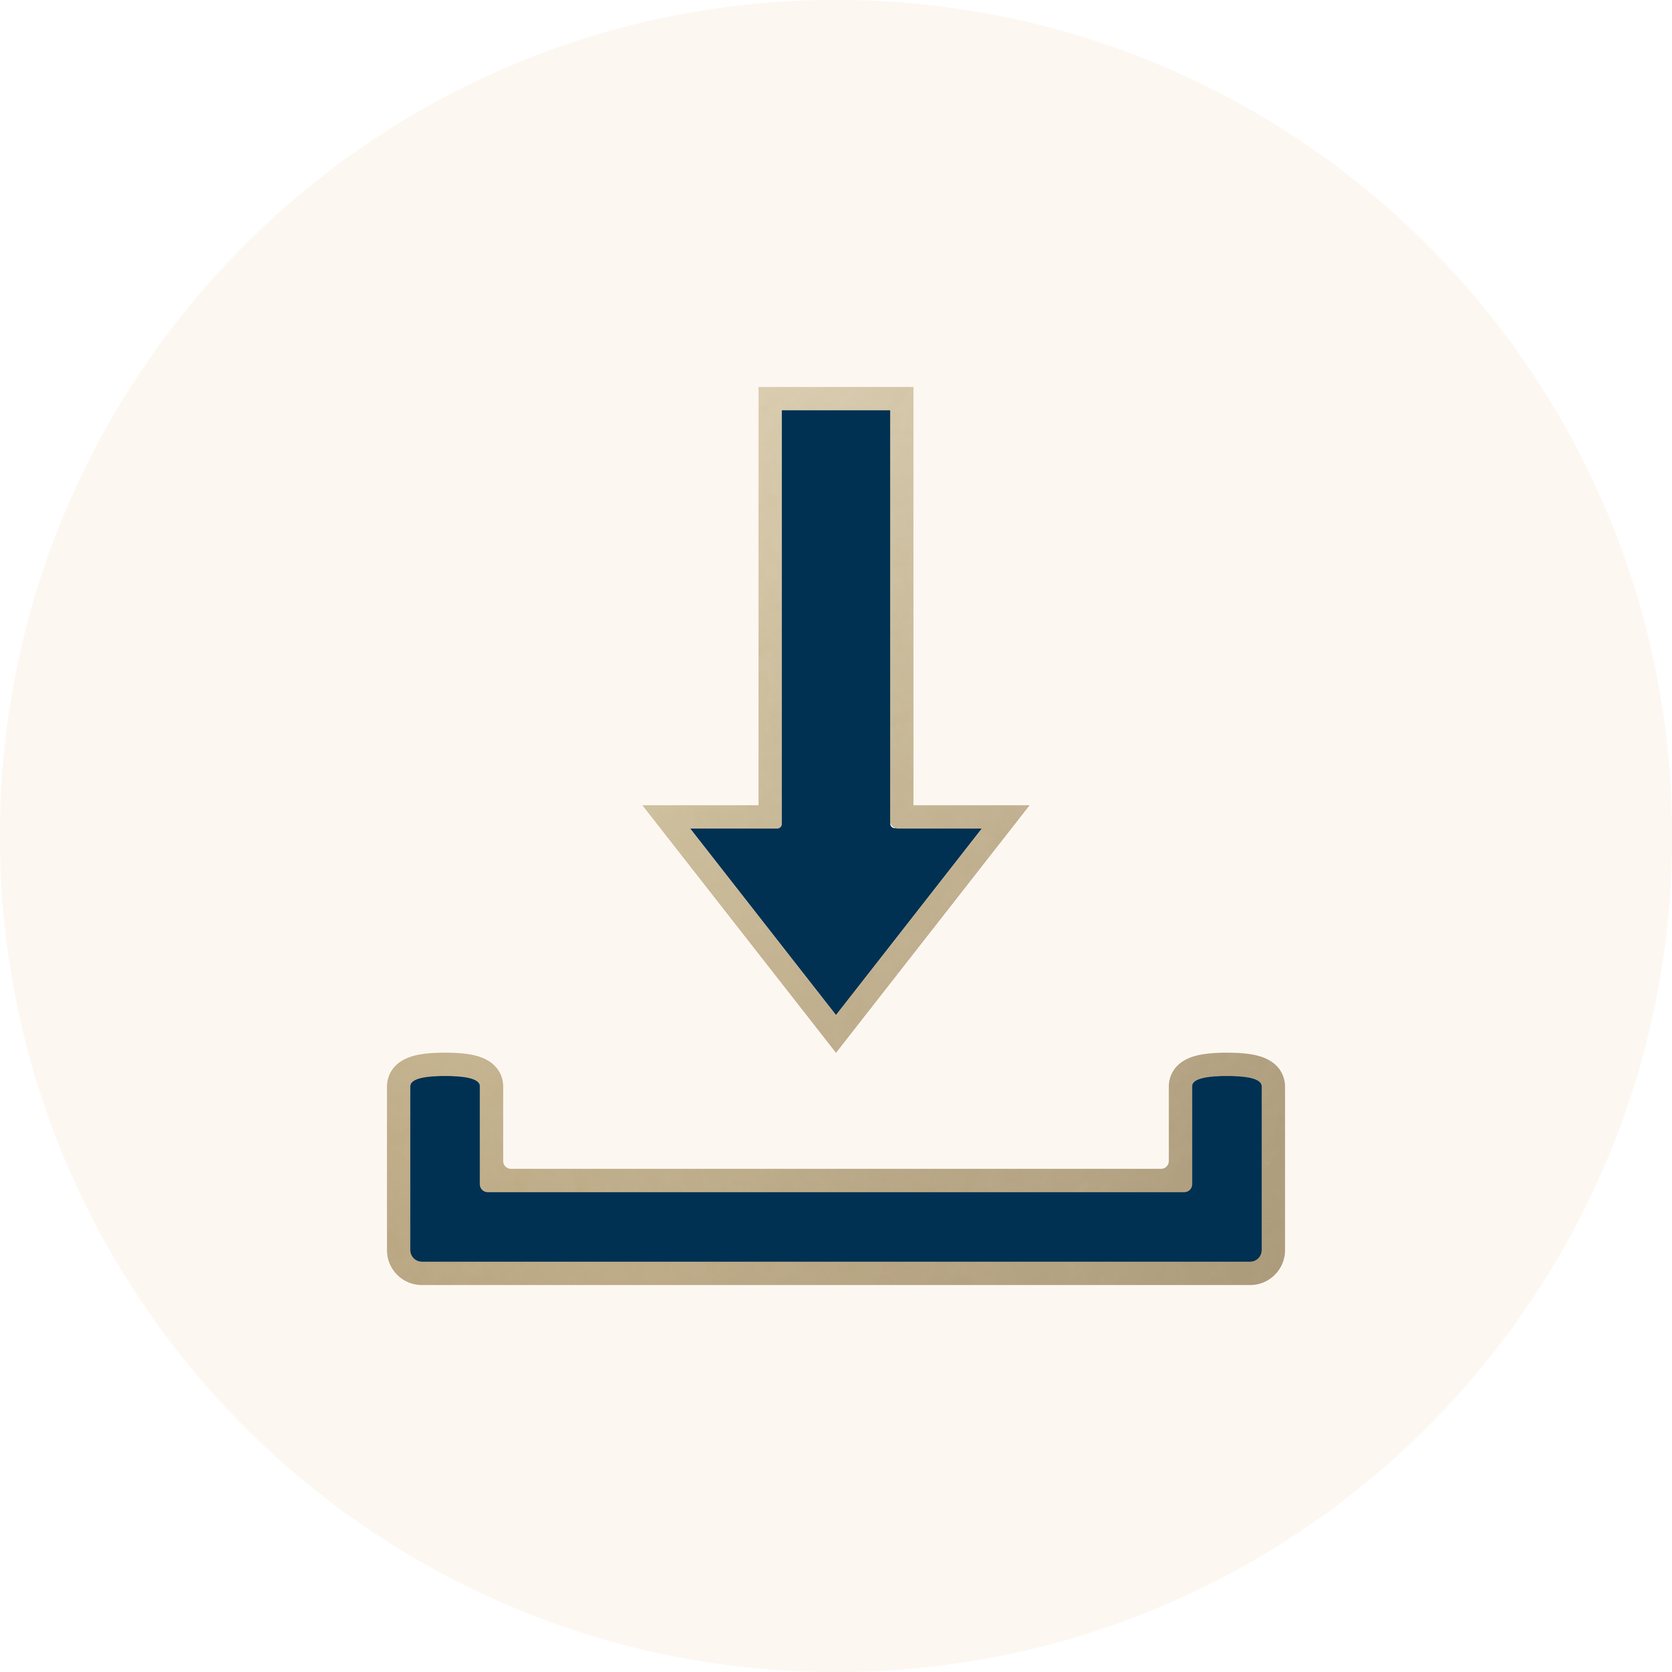
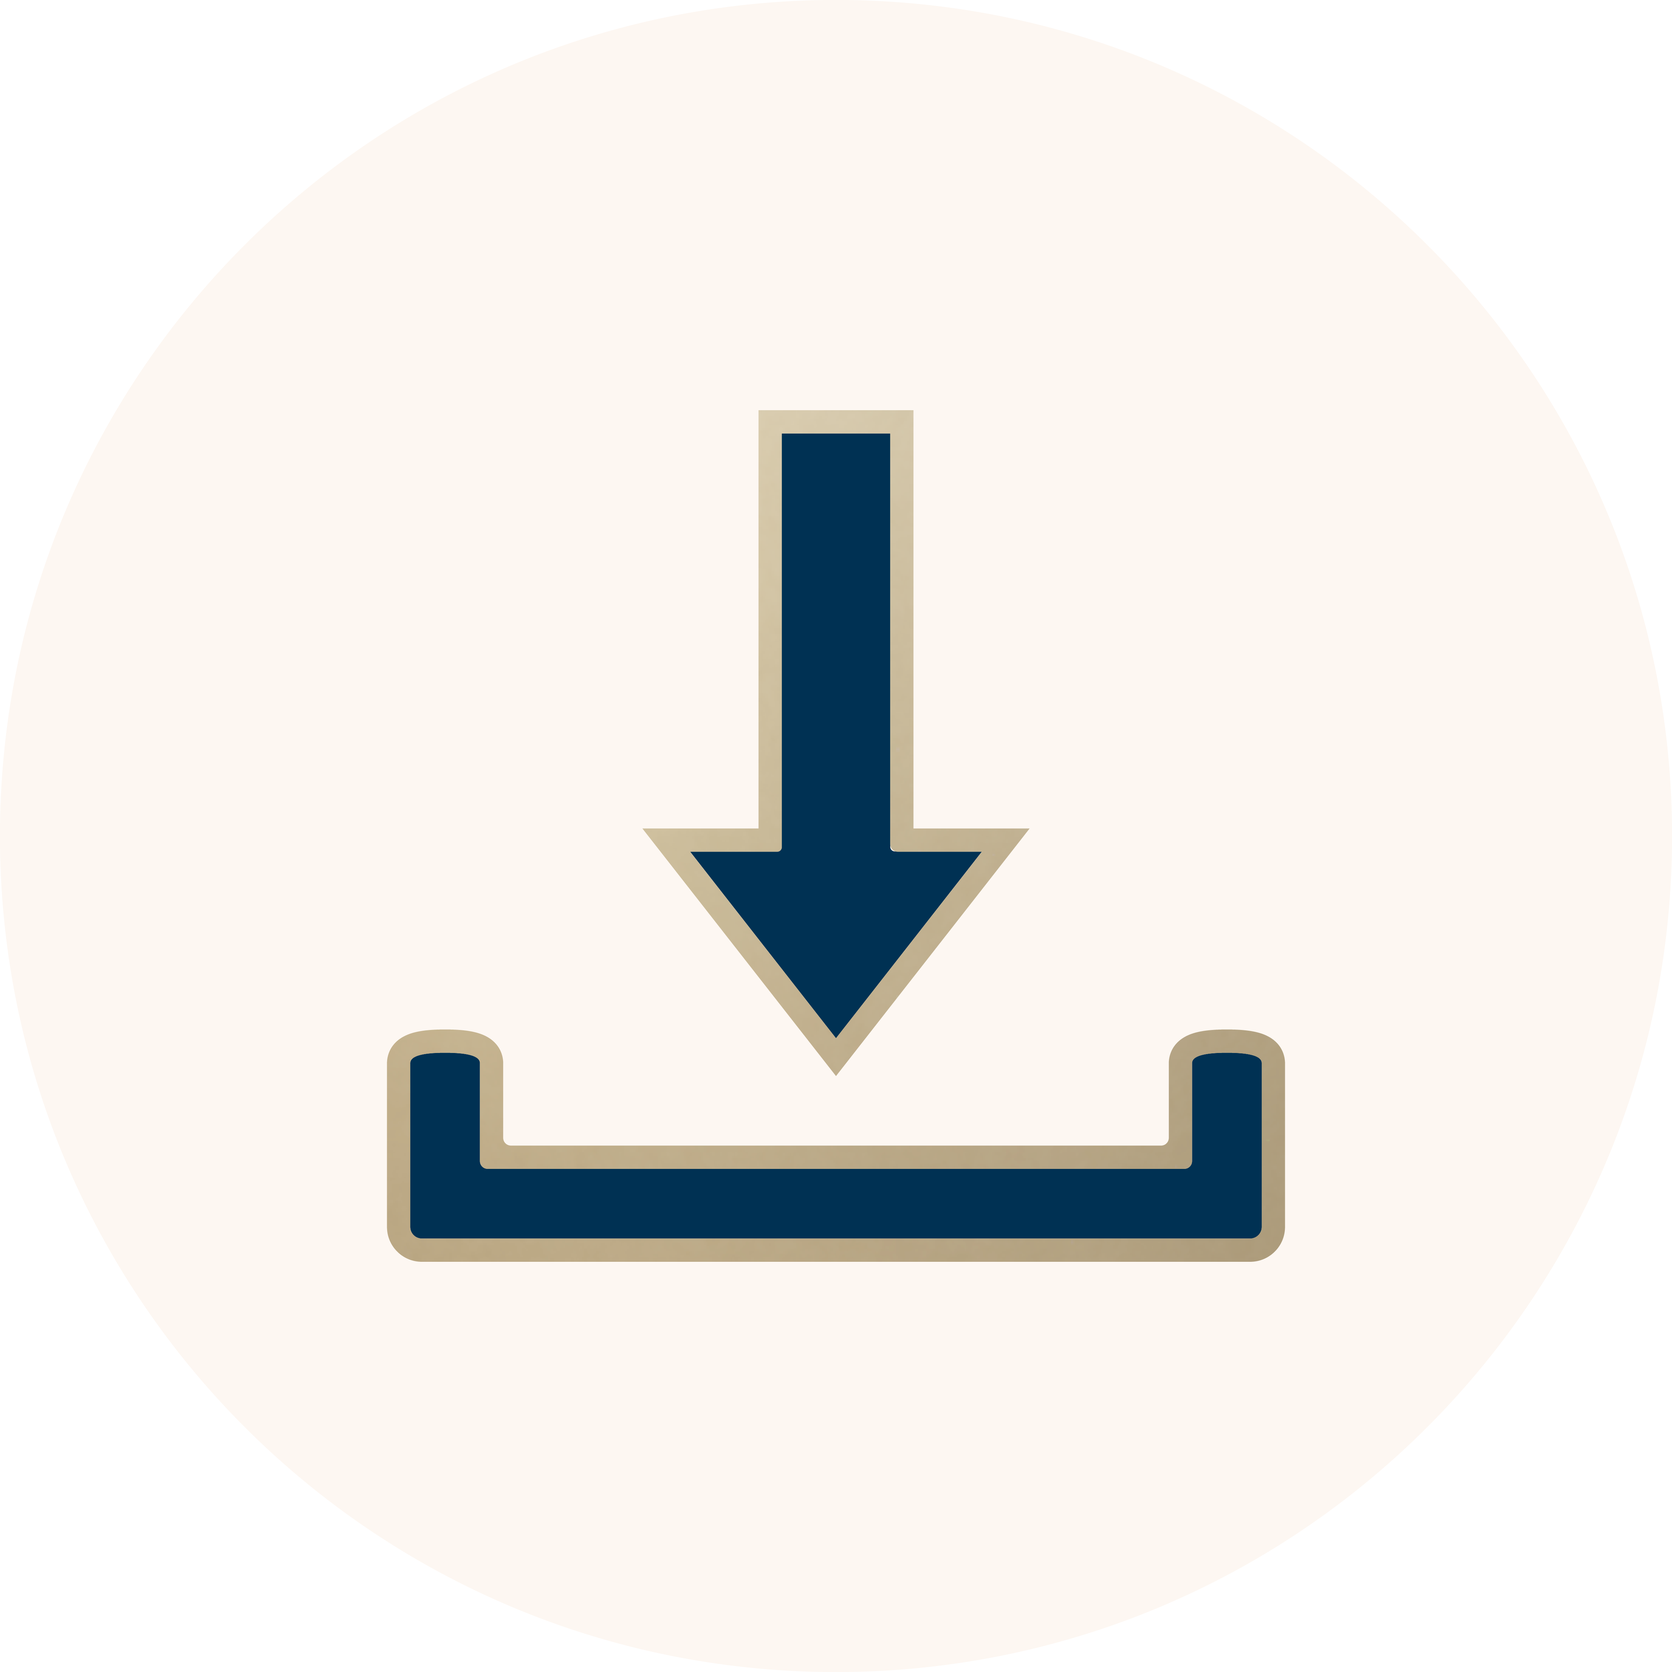
Layout geändert

diff --git a/signature/signature.html b/signature/signature.html
@@ -2,122 +2,154 @@
 <html>
     <body>
         <!--
-        SIGNATUR (TABELLENBASIERT)
-        Ziele:
-        - Outlook-/Client-stabile Darstellung (mso-table-lspace/rspace)
-        - Logo-Oberkante exakt auf Höhe der ersten Textzeile ("Hauke THIMM")
-        - Telefonnummer NICHT verlinkt
-        - Typo-Hierarchie: Cormorant (Name + Titel), Source Sans 3 (Kontakt)
-        - Keine Social-Icons (auskommentiert)
+        EMAIL SIGNATURE (HTML)
+        Assets (relative paths):
+        - /signature/logo.png
+        - /signature/highlights_golg.png
+        - /signature/linkedin.png
+        - /signature/instagram.png
+
+        Fonts:
+        - Head: Cormorant Garamond
+        - Body: Source Sans 3
+
+        Color:
+        - Text + Icons: #003153
         -->
 
-        <!-- 1) AUSSEN-TABELLE: Outlook-kompatible Null-Ränder -->
         <table cellpadding="0" cellspacing="0" border="0"
             style="border-collapse:collapse; mso-table-lspace:0pt; mso-table-rspace:0pt;">
             <tr>
-                <!-- 2) LINKE SPALTE: LOGO (Top-Kante "hart", kein Zeilenhöhen-Offset) -->
-                <td style="vertical-align:top; padding:0 20px 0 0; line-height:0; mso-line-height-rule:exactly;">
-                    <a href="https://haukethimm.com" style="text-decoration:none;">
-                        <img
-                        src="logo.png"
-                        alt="Hauke THIMM"
-                        style="height:125px; width:auto; display:block; border:0; outline:none; text-decoration:none; margin:0; padding:0;"
-                        />
-                    </a>
+                <!-- LEFT: LOGO -->
+                <td style="vertical-align:top; padding:0 24px 0 0; line-height:0; mso-line-height-rule:exactly;">
+                <img src="/signature/logo.png" alt="Hauke THIMM"
+                    style="height:125px; width:auto; display:block; border:0; outline:none; text-decoration:none; margin:0; padding:0;" />
                 </td>
 
-                <!-- 3) RECHTE SPALTE: TEXT (line-height:1 verhindert Outlook-"Extra-Luft") -->
-                <td style="vertical-align:top; color:#003153; padding:0; line-height:1; mso-line-height-rule:exactly;">
+                <!-- RIGHT: TEXT -->
+                <td style="vertical-align:top; padding:0; color:#003153; line-height:1; mso-line-height-rule:exactly;">
 
-                    <!-- 4) INNERE TABELLE: optional, aber stabil in vielen Mail-Clients -->
-                    <table cellpadding="0" cellspacing="0" border="0" style="border-collapse:collapse; mso-table-lspace:0pt; mso-table-rspace:0pt;">
+                    <table cellpadding="0" cellspacing="0" border="0"
+                            style="border-collapse:collapse; mso-table-lspace:0pt; mso-table-rspace:0pt;">
                         <tr>
-                            <!-- 5) INNERE ZELLE: ebenfalls line-height:1 für konsistente Top-Ausrichtung -->
-                            <td style="vertical-align:top; padding:0; line-height:1; mso-line-height-rule:exactly;">
+                        <td style="vertical-align:top; padding:0; line-height:1; mso-line-height-rule:exactly;">
 
-                                <!-- NAME (Cormorant Garamond) -->
-                                <div style="margin:0 0 3px 0; font-family:'Cormorant Garamond', Georgia, 'Times New Roman', serif; font-size:24px; font-weight:700; line-height:1.15;">
-                                Hauke <span style="letter-spacing:0.02em;">THIMM</span>
-                                </div>
-
-                                <!-- TITEL / POSITION (Cormorant Garamond) -->
-                                <div style="margin:0 0 10px 0; font-family:'Cormorant Garamond', Georgia, 'Times New Roman', serif; font-size:20px; font-weight:500; line-height:1.15;">
-                                High-Level Events &amp; Protocol Management
-                                </div>
-
-                                <!-- TELEFON (Source Sans 3) | Labels haben feste Breite -> Texte starten bündig -->
-                                <div style="margin:0 0 3px 0; font-family:'Source Sans 3', Arial, Helvetica, sans-serif; font-size:14px; font-weight:400; line-height:1.35; white-space:nowrap;">
-                                    <span style="display:inline-block; width:22px;">T:</span>
-                                    <span style="font-weight:400;">+49&#8203; 160&#8203; 95364569</span>
-                                </div>
-
-                                <!-- E-MAIL (Source Sans 3) -->
-                                <div style="margin:0 0 3px 0; font-family:'Source Sans 3', Arial, Helvetica, sans-serif; font-size:14px; font-weight:400; line-height:1.35; white-space:nowrap;">
-                                    <span style="display:inline-block; width:22px;">E:</span>
-                                    <a href="mailto:mail@haukethimm.com" style="color:#003153 !important; text-decoration:none !important; font-weight:500;">
-                                        mail@haukethimm.com
-                                    </a>
-                                </div>
-
-                                <!-- WEBSITE (Source Sans 3) -->
-                                <div style="margin:0; font-family:'Source Sans 3', Arial, Helvetica, sans-serif; font-size:14px; font-weight:400; line-height:1.35; white-space:nowrap;">
-                                    <span style="display:inline-block; width:22px;">W:</span>
-                                    <a href="https://haukethimm.com" style="color:#003153 !important; text-decoration:none !important; font-weight:500;">
-                                        haukethimm.com
-                                    </a>
-                                </div>
-
-                            <!--
-                                 TELEFON (Source Sans 3) | WICHTIG: KEIN tel:-Link 
-                                <div style="margin:0 0 3px 0; font-family:'Source Sans 3', Arial, Helvetica, sans-serif; font-size:14px; font-weight:400; line-height:1.35; white-space:nowrap;">
-                                T: <span style="font-weight:400;">+49 160 95364569</span>
-                                </div>
-
-                                 E-MAIL (Source Sans 3) 
-                                <div style="margin:0 0 3px 0; font-family:'Source Sans 3', Arial, Helvetica, sans-serif; font-size:14px; font-weight:400; line-height:1.35; white-space:nowrap;">
-                                E:
-                                <a href="mailto:mail@haukethimm.com" style="color:#003153; text-decoration:none; font-weight:500;">
-                                    mail@haukethimm.com
-                                </a>
-                                </div>
-
-                                 WEBSITE (Source Sans 3) 
-                                <div style="margin:0; font-family:'Source Sans 3', Arial, Helvetica, sans-serif; font-size:14px; font-weight:400; line-height:1.35; white-space:nowrap;">
-                                W:
-                                <a href="https://haukethimm.com" style="color:#003153; text-decoration:none; font-weight:500;">
-                                    haukethimm.com
-                                </a>
-                                </div> 
-                            -->
-
-                            </td>
-                        </tr>
-
-                        <!-- SOCIAL-ICONS: derzeit deaktiviert (auskommentiert)
-                        <tr>
-                        <td style="vertical-align:bottom; padding:0;">
-                            <div style="margin:0; line-height:1; font-size:0;">
-                            <a href="https://www.linkedin.com/in/haukethimm/" style="text-decoration:none; display:inline-block;">
-                                <img
-                                src="linkedin.png"
-                                alt="LinkedIn"
-                                style="height:35px; width:auto; display:inline-block; vertical-align:middle; border:0; outline:none; text-decoration:none;"
-                                />
-                            </a>
-
-                            <span style="display:inline-block; width:10px; font-size:0; line-height:0;">&nbsp;</span>
-
-                            <a href="https://instagram.com/haukethimm" style="text-decoration:none; display:inline-block;">
-                                <img
-                                src="instagram.png"
-                                alt="Instagram"
-                                style="height:35px; width:auto; display:inline-block; vertical-align:middle; border:0; outline:none; text-decoration:none;"
-                                />
-                            </a>
+                            <!-- NAME (Cormorant Garamond) -->
+                            <div style="margin:0 0 4px 0; font-family:'Cormorant Garamond', Georgia, 'Times New Roman', serif; font-size:26px; font-weight:700; line-height:1.1; color:#003153;">
+                            Hauke <span style="letter-spacing:0.02em;">THIMM</span>
                             </div>
+
+                            <!-- TITLE (Cormorant Garamond) -->
+                            <div style="margin:0 0 10px 0; font-family:'Cormorant Garamond', Georgia, 'Times New Roman', serif; font-size:20px; font-weight:500; line-height:1.15; color:#003153;">
+                            High-level Events &amp; Protocol Manager
+                            </div>
+
+                            <!-- DIVIDER (100x5, scaled to end aligned with rightmost text) -->
+                            <table cellpadding="0" cellspacing="0" border="0" style="border-collapse:collapse; margin:0 0 12px 0;">
+                            <tr>
+                                <td style="padding:0; line-height:0;">
+                                <span style="display:block; height:5px; width:100%; max-width:520px; background-image:url('/signature/highlights_golg.png'); background-repeat:no-repeat; background-size:100% 100%; background-position:center;">
+                                    &nbsp;
+                                </span>
+                                </td>
+                            </tr>
+                            </table>
+
+                            <!-- CONTACT ROWS: ICON + TEXT -->
+                            <table cellpadding="0" cellspacing="0" border="0"
+                                style="border-collapse:collapse; mso-table-lspace:0pt; mso-table-rspace:0pt;">
+                            <!-- PHONE -->
+                            <tr>
+                                <td style="vertical-align:middle; padding:0 10px 10px 0; line-height:0;">
+                                <!-- Inline SVG icon (phone) in #003153 -->
+                                <svg width="18" height="18" viewBox="0 0 24 24" xmlns="http://www.w3.org/2000/svg"
+                                    style="display:block;" aria-hidden="true">
+                                    <path fill="#003153" d="M6.62 10.79a15.05 15.05 0 006.59 6.59l2.2-2.2a1 1 0 01.98-.24c1.08.36 2.25.55 3.46.55a1 1 0 011 1V20a1 1 0 01-1 1C10.07 21 3 13.93 3 5a1 1 0 011-1h3.5a1 1 0 011 1c0 1.21.19 2.38.55 3.46a1 1 0 01-.24.98l-2.19 2.35z"/>
+                                </svg>
+                                </td>
+                                <td style="vertical-align:middle; padding:0 0 10px 0;">
+                                <div style="margin:0; font-family:'Source Sans 3', Arial, Helvetica, sans-serif; font-size:14px; font-weight:400; line-height:1.35; color:#003153; white-space:nowrap;">
+                                    +49 160 95364569
+                                </div>
+                                </td>
+                            </tr>
+
+                            <!-- EMAIL -->
+                            <tr>
+                                <td style="vertical-align:middle; padding:0 10px 10px 0; line-height:0;">
+                                <svg width="18" height="18" viewBox="0 0 24 24" xmlns="http://www.w3.org/2000/svg"
+                                    style="display:block;" aria-hidden="true">
+                                    <path fill="#003153" d="M20 4H4a2 2 0 00-2 2v12a2 2 0 002 2h16a2 2 0 002-2V6a2 2 0 00-2-2zm0 4l-8 5-8-5V6l8 5 8-5v2z"/>
+                                </svg>
+                                </td>
+                                <td style="vertical-align:middle; padding:0 0 10px 0;">
+                                <div style="margin:0; font-family:'Source Sans 3', Arial, Helvetica, sans-serif; font-size:14px; font-weight:400; line-height:1.35; color:#003153; white-space:nowrap;">
+                                    <a href="mailto:mail@haukethimm.com"
+                                    style="color:#003153 !important; text-decoration:none !important; font-weight:400;">
+                                    mail@haukethimm.com
+                                    </a>
+                                </div>
+                                </td>
+                            </tr>
+
+                            <!-- WEBSITE -->
+                            <tr>
+                                <td style="vertical-align:middle; padding:0 10px 10px 0; line-height:0;">
+                                <svg width="18" height="18" viewBox="0 0 24 24" xmlns="http://www.w3.org/2000/svg"
+                                    style="display:block;" aria-hidden="true">
+                                    <path fill="#003153" d="M12 2a10 10 0 100 20 10 10 0 000-20zm7.93 9h-3.16a15.7 15.7 0 00-1.2-5.02A8.02 8.02 0 0119.93 11zM12 4c.93 1.2 1.7 3.3 2.07 7H9.93C10.3 7.3 11.07 5.2 12 4zM4.07 13h3.16c.23 1.82.7 3.56 1.2 5.02A8.02 8.02 0 014.07 13zm3.16-2H4.07a8.02 8.02 0 014.36-5.02c-.5 1.46-.97 3.2-1.2 5.02zM9.93 13h4.14c-.37 3.7-1.14 5.8-2.07 7-.93-1.2-1.7-3.3-2.07-7zm5.64 5.02c.5-1.46.97-3.2 1.2-5.02h3.16a8.02 8.02 0 01-4.36 5.02z"/>
+                                </svg>
+                                </td>
+                                <td style="vertical-align:middle; padding:0 0 10px 0;">
+                                <div style="margin:0; font-family:'Source Sans 3', Arial, Helvetica, sans-serif; font-size:14px; font-weight:400; line-height:1.35; color:#003153; white-space:nowrap;">
+                                    <a href="https://haukethimm.com"
+                                    style="color:#003153 !important; text-decoration:none !important; font-weight:400;">
+                                    https://haukethimm.com
+                                    </a>
+                                </div>
+                                </td>
+                            </tr>
+
+                            <!-- ADDRESS -->
+                            <tr>
+                                <td style="vertical-align:middle; padding:0 10px 0 0; line-height:0;">
+                                <svg width="18" height="18" viewBox="0 0 24 24" xmlns="http://www.w3.org/2000/svg"
+                                    style="display:block;" aria-hidden="true">
+                                    <path fill="#003153" d="M12 2a7 7 0 00-7 7c0 5.25 7 13 7 13s7-7.75 7-13a7 7 0 00-7-7zm0 9.5A2.5 2.5 0 1112 6a2.5 2.5 0 010 5.5z"/>
+                                </svg>
+                                </td>
+                                <td style="vertical-align:middle; padding:0;">
+                                <div style="margin:0; font-family:'Source Sans 3', Arial, Helvetica, sans-serif; font-size:14px; font-weight:400; line-height:1.35; color:#003153;">
+                                    Marienthaler Straße 124B, 20535 Hamburg, GERMANY
+                                </div>
+                                </td>
+                            </tr>
+                            </table>
+
                         </td>
                         </tr>
-                        -->
+
+                        <!-- SOCIAL ICONS (PNG) -->
+                        <tr>
+                            <td style="padding:12px 0 0 0; vertical-align:top;">
+                                <table cellpadding="0" cellspacing="0" border="0" style="border-collapse:collapse;">
+                                    <tr>
+                                        <td style="padding:0 10px 0 0; line-height:0;">
+                                            <a href="https://www.linkedin.com/in/haukethimm/" style="text-decoration:none;">
+                                                <img src="/signature/linkedin.png" alt="LinkedIn"
+                                                    style="height:28px; width:auto; display:block; border:0; outline:none; text-decoration:none;" />
+                                            </a>
+                                        </td>
+                                        <td style="padding:0; line-height:0;">
+                                            <a href="https://instagram.com/haukethimm" style="text-decoration:none;">
+                                                <img src="/signature/instagram.png" alt="Instagram"
+                                                    style="height:28px; width:auto; display:block; border:0; outline:none; text-decoration:none;" />
+                                            </a>
+                                        </td>
+                                    </tr>
+                                </table>
+                            </td>
+                        </tr>
 
                     </table>
                 </td>
@@ -125,4 +157,3 @@
         </table>
     </body>
 </html>
-
